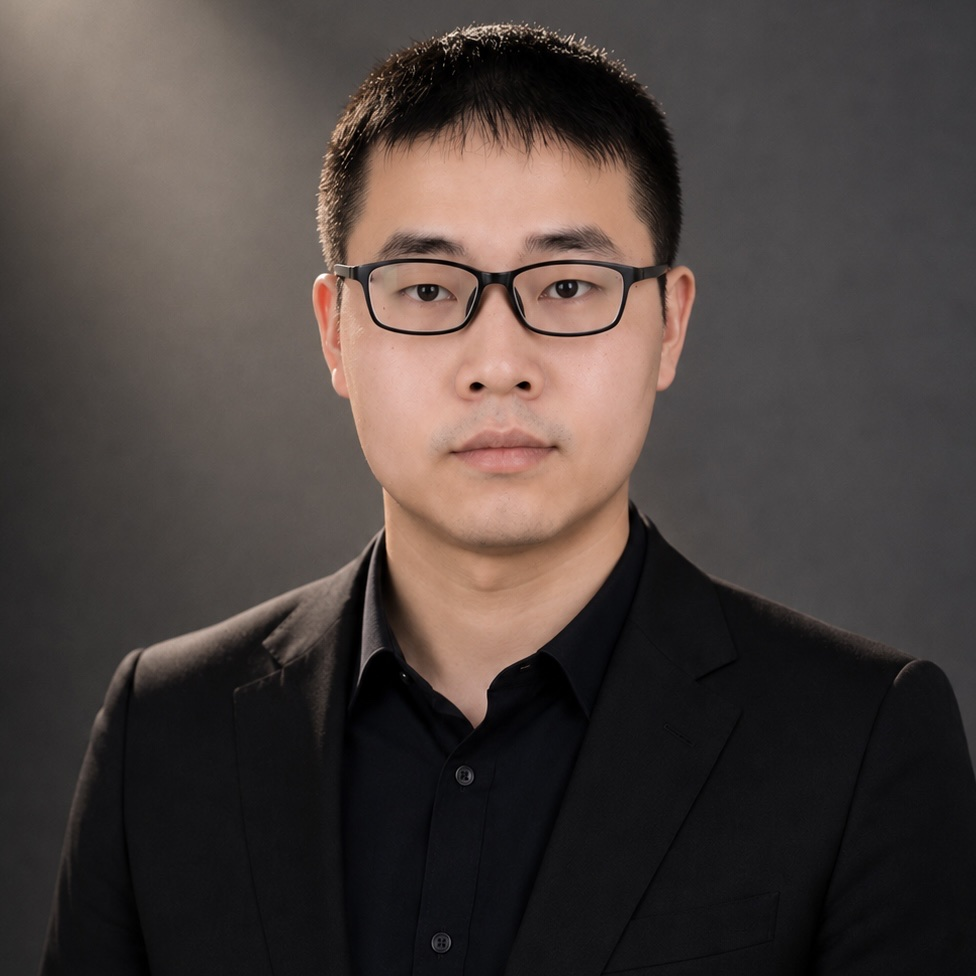
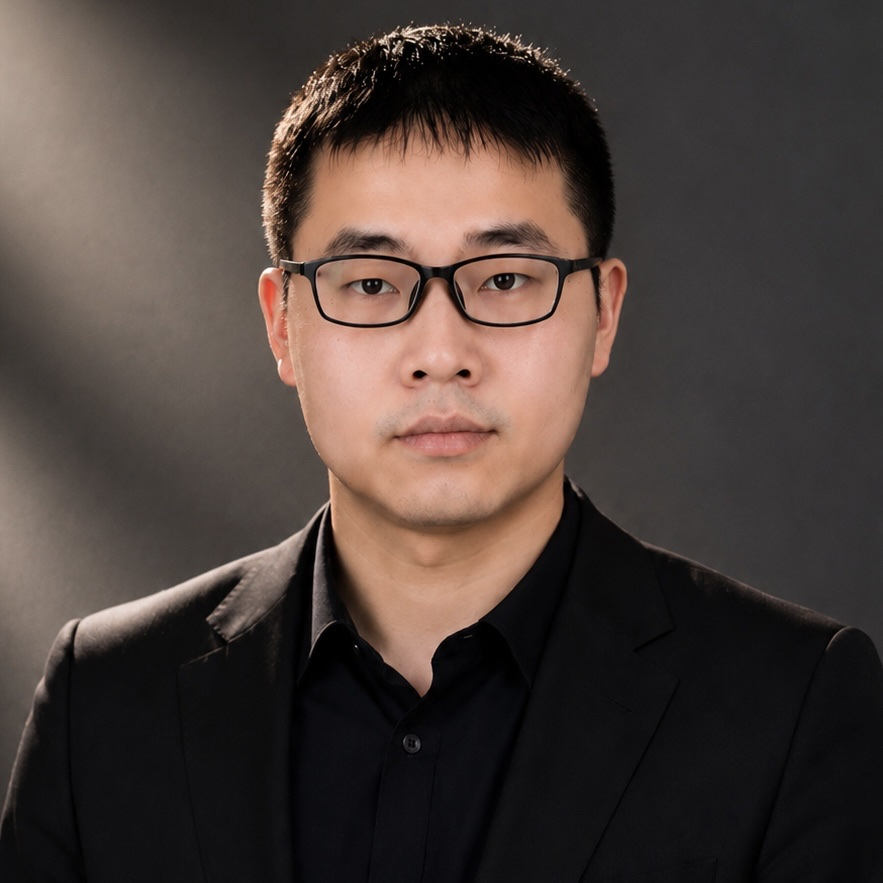
team: new Chen Chen headshot; move card after Colin Su
Leadership order: MX, SD, AZ, CC, Elena, Colin, Chen Chen, Ruiqi.

diff --git a/team.html b/team.html
@@ -81,13 +81,6 @@
             proprietary portfolio architecture with institutional financial oversight.</p>
         </article>
         <article class="lead">
-          <div class="avatar">CN<img src="./assets/team/chen.jpg" alt="Chen Chen" loading="lazy" onerror="this.remove()"></div>
-          <div class="nm">Chen Chen</div>
-          <div class="role">Head of Strategy &amp; Treasury</div>
-          <p class="bio">Owns corporate strategic planning, institutional account operations, and treasury — aligning
-            capital deployment, operational discipline, and long-range growth across SFG.</p>
-        </article>
-        <article class="lead">
           <div class="avatar">EL<img src="./assets/team/el.jpg" alt="Elena Li" loading="lazy" onerror="this.remove()"></div>
           <div class="nm">Elena Li</div>
           <div class="role">Performance Coach &amp; Supervisor</div>
@@ -100,6 +93,13 @@
           <div class="role">CIO · Research Partner</div>
           <p class="bio">Systematic research expert across equities and digital assets. Previously led research at a
             major digital-asset exchange; oversees strategic research architecture.</p>
+        </article>
+        <article class="lead">
+          <div class="avatar">CN<img src="./assets/team/chen.jpg" alt="Chen Chen" loading="lazy" onerror="this.remove()"></div>
+          <div class="nm">Chen Chen</div>
+          <div class="role">Head of Strategy &amp; Treasury</div>
+          <p class="bio">Owns corporate strategic planning, institutional account operations, and treasury — aligning
+            capital deployment, operational discipline, and long-range growth across SFG.</p>
         </article>
         <article class="lead">
           <div class="avatar">RY<img src="./assets/team/ry.jpg" alt="Ruiqi Yang" loading="lazy" onerror="this.remove()"></div>